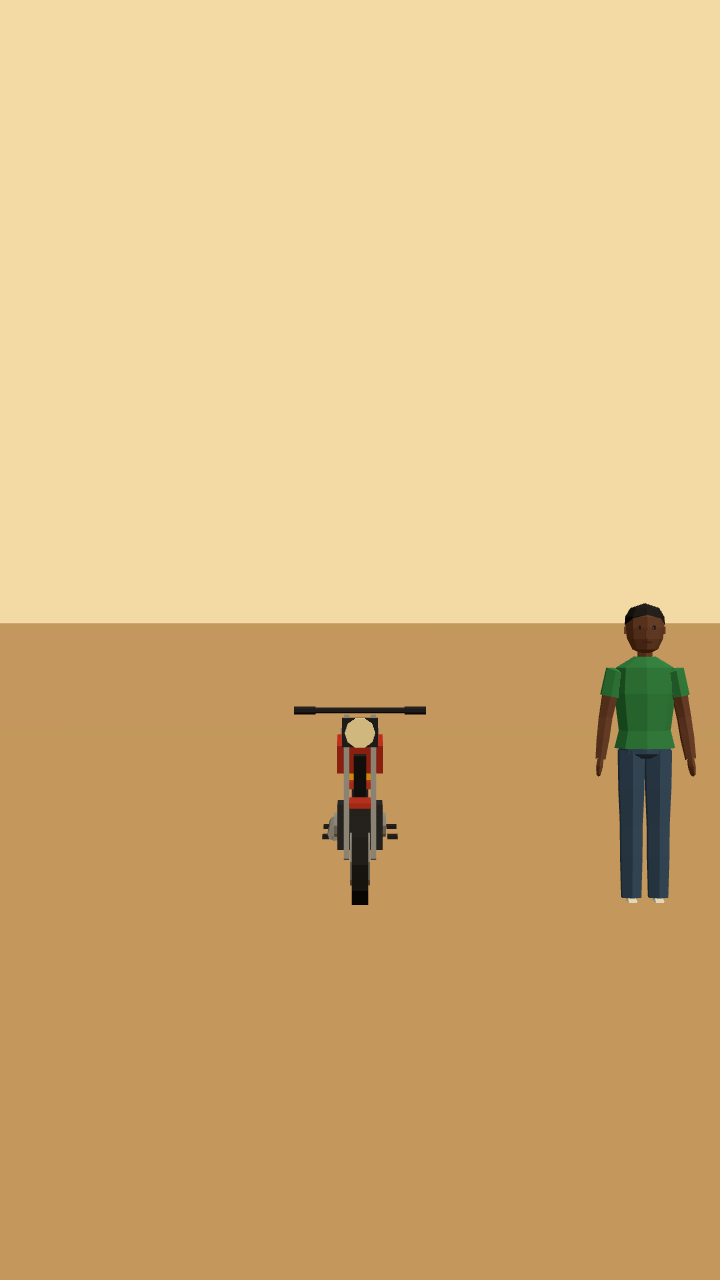
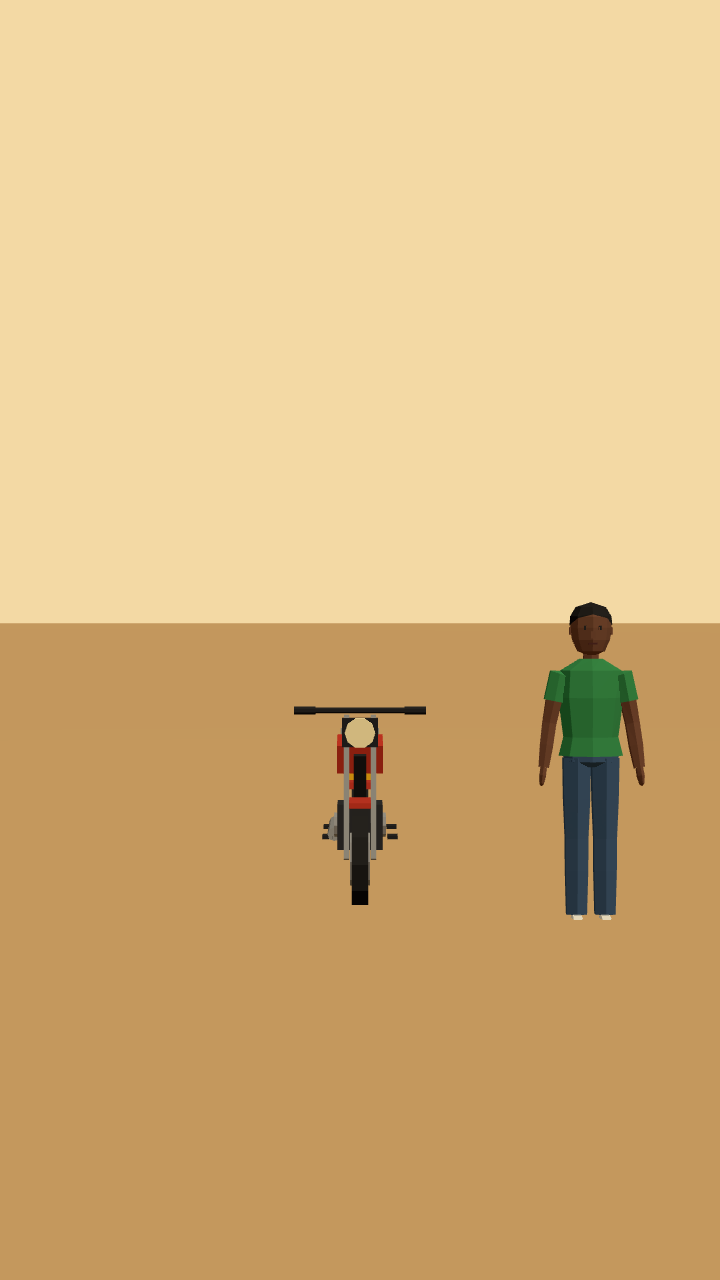
Stage: a person for scale on the pavement in every phone shot; re-shot the examples, props and vehicles

Changed region(s): [[0.7333, 0.4688, 0.9778, 0.7188]]

diff --git a/assets-src/stage/stage.ts b/assets-src/stage/stage.ts
@@ -252,7 +252,8 @@ const stage = {
     if (phone) buildStreet(box.max.z, box.max.x - box.min.x);
     if (figure !== null) {
       figure.visible = phone;
-      figure.position.set(box.max.x + 1.2, 0, box.max.z - 0.3);
+      // A person for scale, standing on the pavement in front of the asset, inside the phone's narrow frame.
+      figure.position.set((box.min.x + box.max.x) / 2 + 1.2, 0, box.max.z + 0.4);
     }
     scene.fog = null;
     ground.visible = true;
